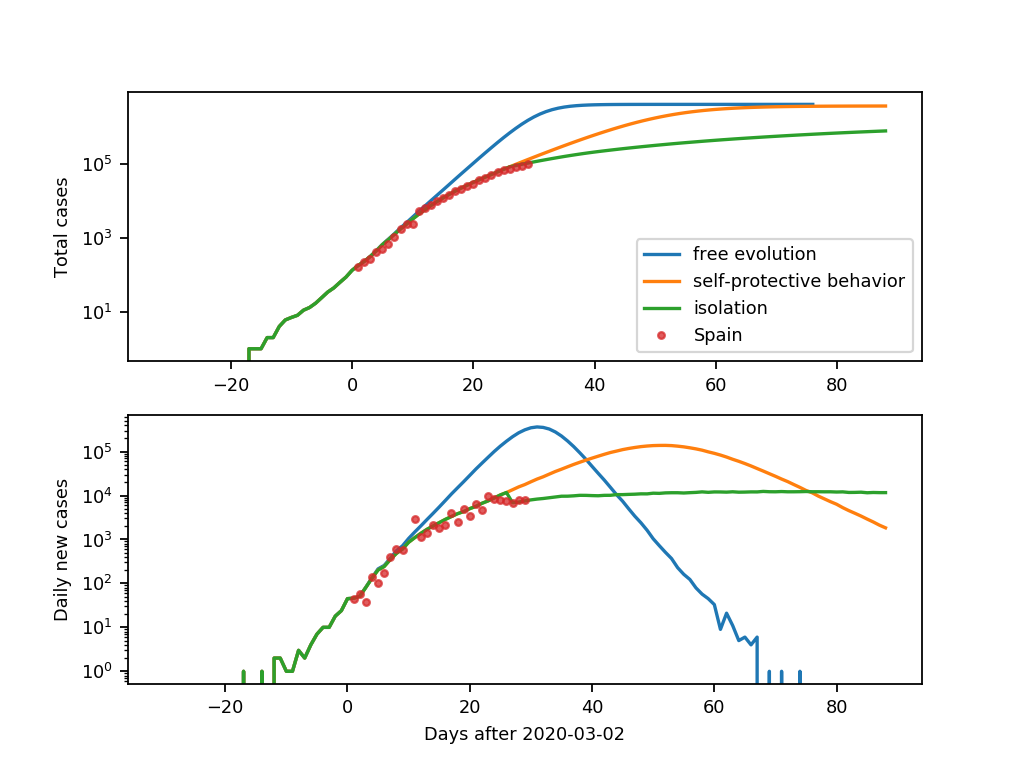
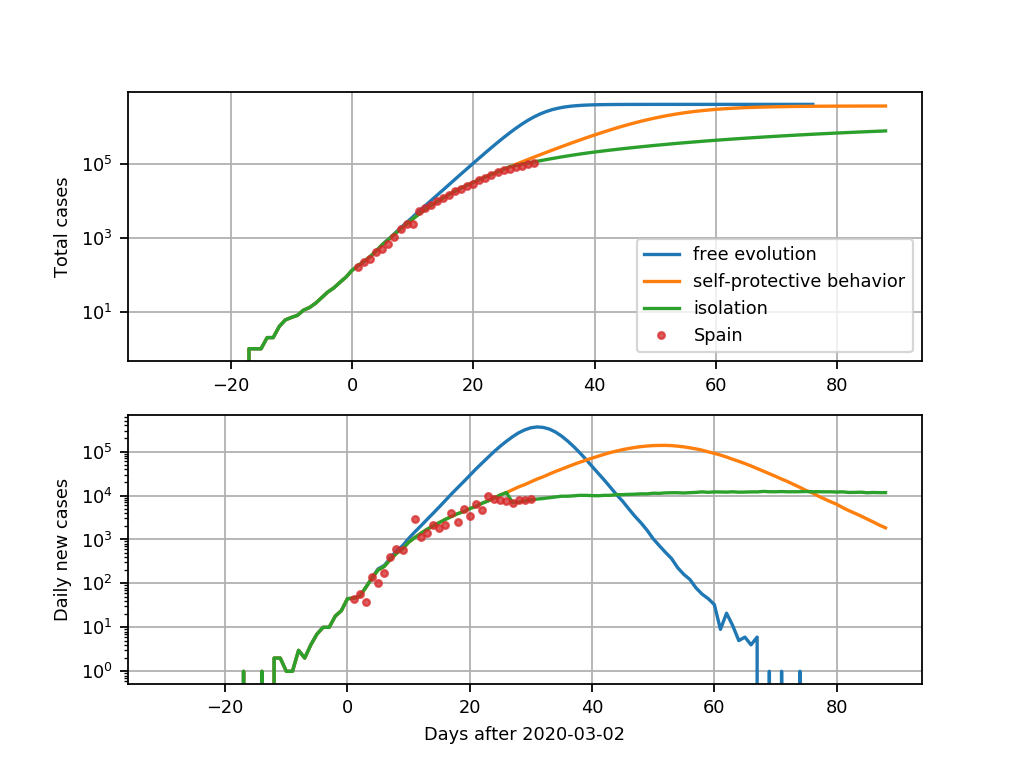
update for 1st april

diff --git a/down.py b/down.py
@@ -32,17 +32,21 @@ for item in items:
         df['dr'] = df['r'].diff()
         i0=(df['r']-threshold_new).abs().argsort()[0]
         df['time'] -= i0
-        df.plot(x='time',y='r',  logy=True, label=labels[output], ax=axes[0])
-        df.plot(x='time',y='dr', logy=True, label=labels[output], ax=axes[1])
-    data[data.days>0].plot(x="days", y=item,     style=".", alpha=0.75, logy=True, label=item, ax=axes[0])
-    data[data.days>0].plot(x="days", y="ncases", style=".", alpha=0.75, logy=True, label=item, ax=axes[1])
+        df.plot(x='time',y='r', label=labels[output], ax=axes[0])
+        df.plot(x='time',y='dr',label=labels[output], ax=axes[1])
+    data[data.days>0].plot(x="days", y=item,     style=".", alpha=0.75, label=item, ax=axes[0])
+    data[data.days>0].plot(x="days", y="ncases", style=".", alpha=0.75, label=item, ax=axes[1])
 
+axes[0].set_yscale('log')
+axes[1].set_yscale('log')
 axes[0].set_ylabel("Total cases")
 axes[1].set_ylabel("Daily new cases")
 axes[0].set_xlabel("")
 axes[1].set_xlabel(t0.strftime("Days after %Y-%m-%d"))
 axes[0].legend(loc=4)
 axes[1].legend().set_visible(False)
+axes[0].grid()
+axes[1].grid()
 
 plt.savefig(fname, dpi=160)
-#plt.show()
+plt.show()
